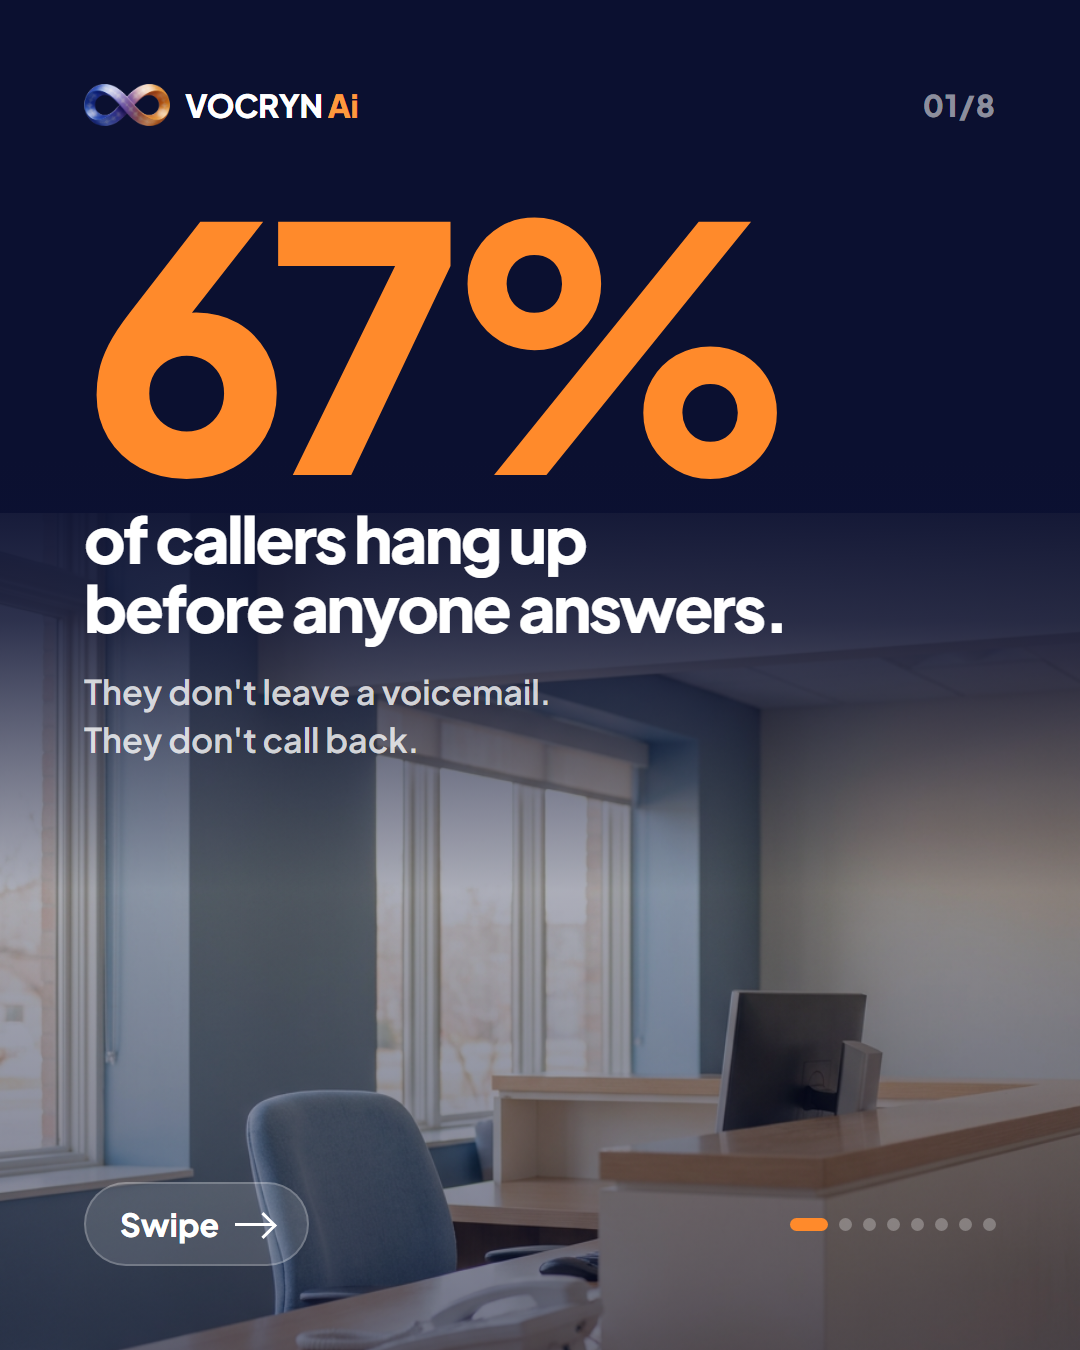
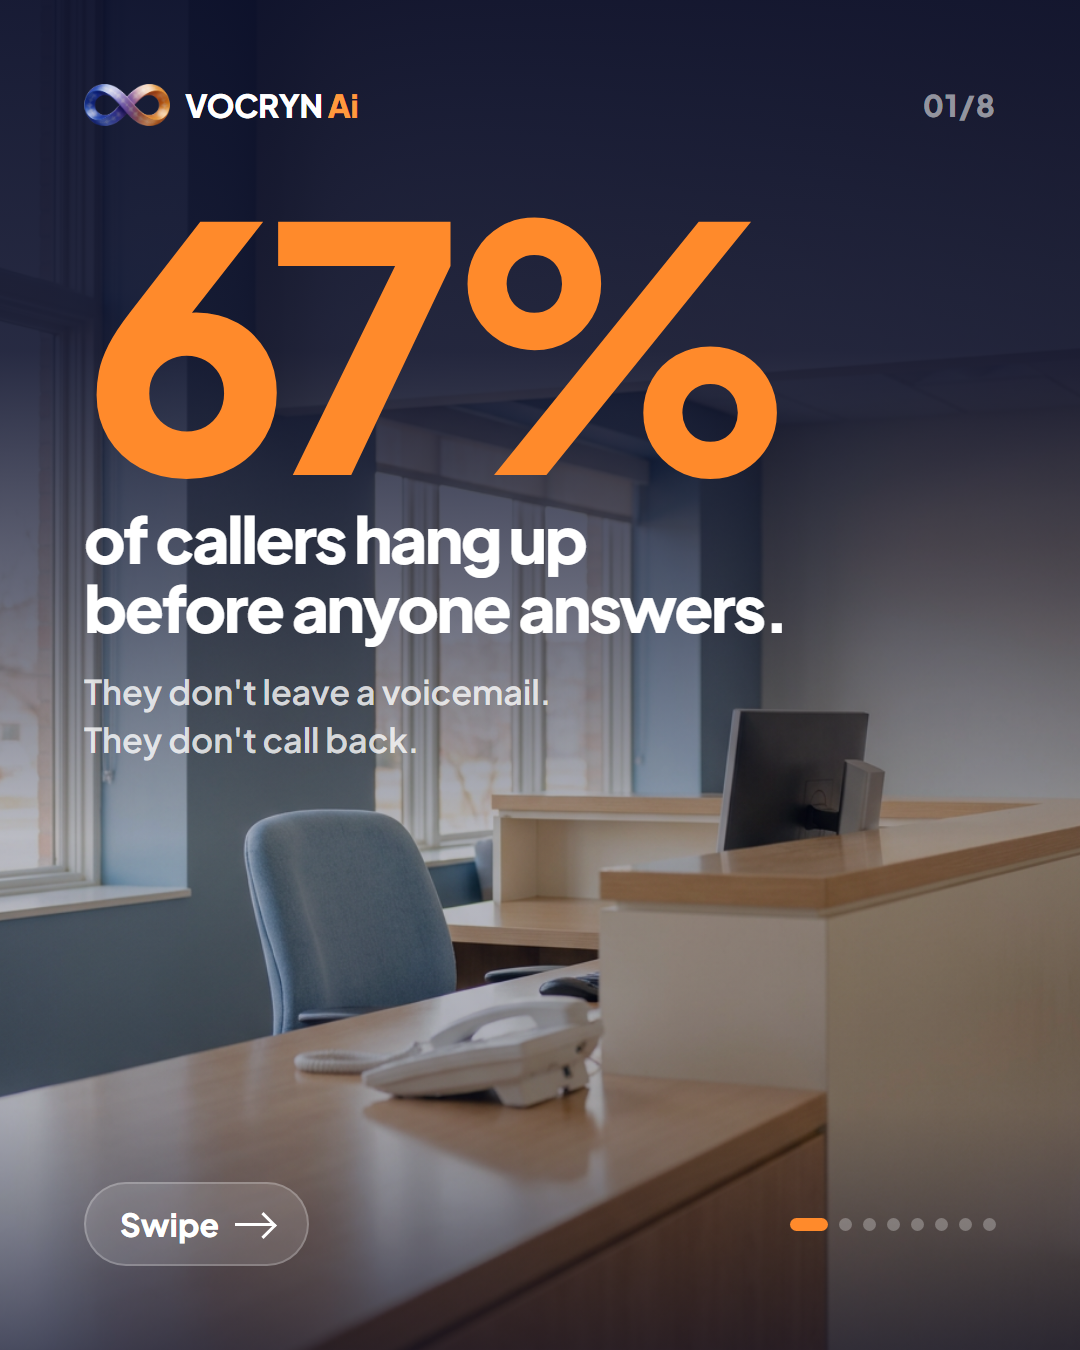
Use the photographs full-bleed on the carousel
The photo was confined to the lower 62% of the slide behind a heavy scrim, so
most of each image was being thrown away — the empty reception desk with its
unanswered phone, which is the whole point of slide 1, was barely visible.

Photos now cover the full slide. The scrim is weighted to the top band where the
headline sits, eases off through the middle so the photograph actually reads, and
darkens again at the foot for the footer row.

Each photo already carried the brand bar, the wordmark, the slide counter and
progress dots, and its copy matches what the image shows: unanswered phone ->
"67% hang up", receptionist caught between phone and counter -> "they call the
practice down the road", headset -> "meet Casey", staff helping a patient ->
"every patient heard".

diff --git a/build/carousel.js b/build/carousel.js
@@ -167,10 +167,13 @@ function slideHtml(s, i, total) {
       linear-gradient(165deg,#0B1030 0%,#141A4E 55%,#1A1140 100%)}
 
   /* Photo lives in the lower band; the scrim keeps type legible above it. */
-  .photo{position:absolute;inset:38% 0 0;background-size:cover;background-position:center 45%}
+  .photo{position:absolute;inset:0;background-size:cover;background-position:center 42%}
+  /* Top band stays dark enough for the headline; the middle clears so the
+     photograph is visible; the foot darkens again for the footer row. */
   .scrim{position:absolute;inset:0;background:
-    linear-gradient(180deg,#0B1030 0%,#0B1030 34%,rgba(11,16,48,.86) 46%,
-      rgba(11,16,48,.34) 66%,rgba(11,16,48,.58) 100%)}
+    linear-gradient(180deg,rgba(9,13,40,.94) 0%,rgba(9,13,40,.88) 26%,
+      rgba(9,13,40,.62) 44%,rgba(9,13,40,.28) 62%,rgba(9,13,40,.34) 82%,
+      rgba(9,13,40,.72) 100%)}
 
   .wrap{position:absolute;inset:0;padding:84px;display:flex;flex-direction:column}
   .body{display:flex;flex-direction:column;align-items:flex-start;
